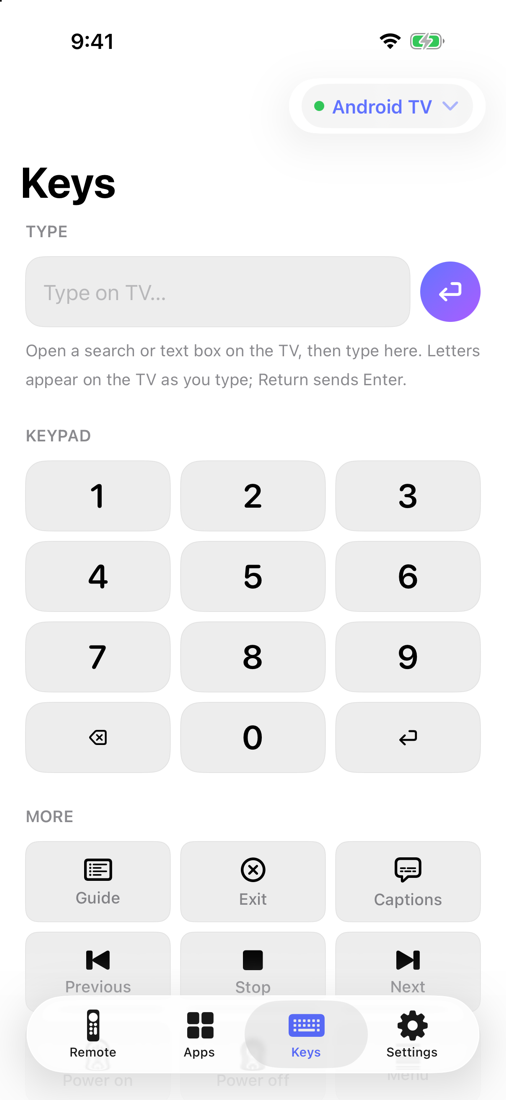
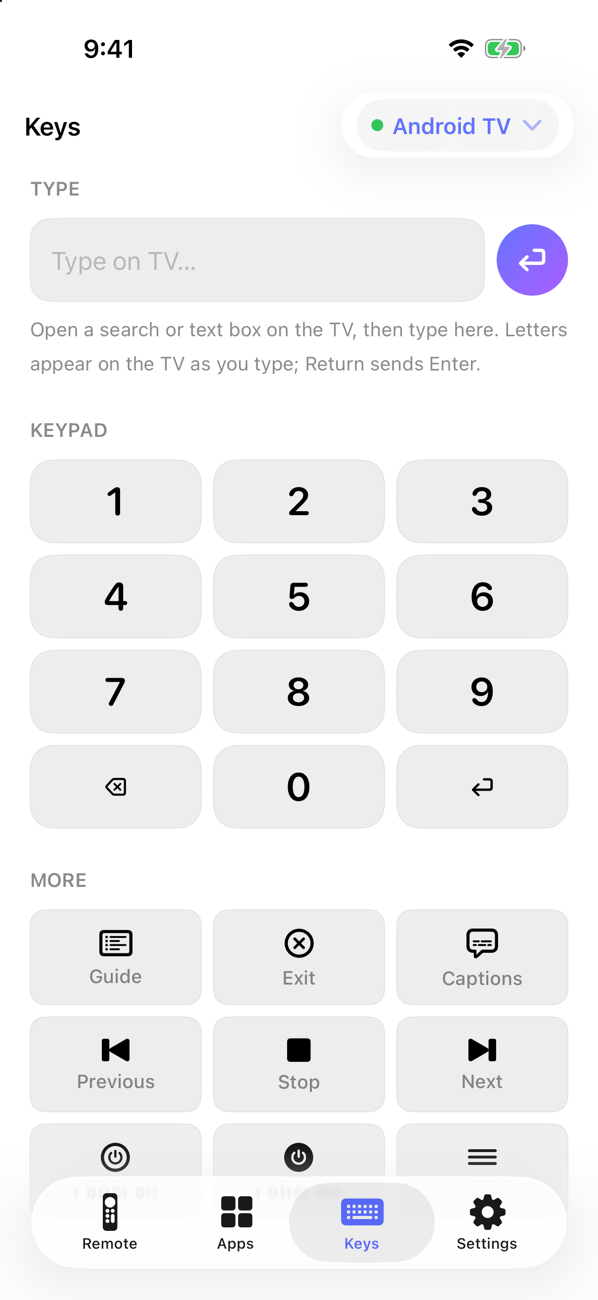
README: fresh screenshots for Mac, iPhone, iPad and Apple Watch

diff --git a/README.md b/README.md
@@ -18,10 +18,11 @@ so your keyboard and trackpad become the remote.
 </p>
 
 <p align="center">
-<img src="docs/screenshots/remote.png" width="260" alt="Remote with app launcher">
-<img src="docs/screenshots/light-ocean.png" width="260" alt="Light mode with the Ocean theme and keypad">
-<img src="docs/screenshots/themes.png" width="260" alt="Color themes in Settings">
+<img src="docs/screenshots/remote.png" width="230" alt="Mac menu bar remote">
+<img src="docs/screenshots/iphone-remote.png" width="230" alt="iPhone remote">
+<img src="docs/screenshots/watch-remote.png" width="170" alt="Apple Watch remote">
 </p>
+<p align="center"><img src="docs/screenshots/ipad-remote.png" width="560" alt="iPad two-column remote"></p>
 
 ## Contents
 - [Supported TVs](#supported-tvs)
@@ -71,7 +72,7 @@ A native iPhone and iPad app shares every rule, protocol driver and component wi
 - **Walkthrough** on first launch: four short pages on finding, pairing and controlling your TV. Replay it from Settings → About.
 - **Tab bar:** iPhone has Remote, Apps, Keys and Settings at the bottom. iPad only needs Remote and Settings, at the top, because its Remote tab already includes apps and keys.
 - **App icon and launch screen** use the TCL Remote TV icon.
-- **Remote tab:** fills the screen with no scrolling. It has a large arrow pad or a **touchpad** (swipe to move, with each swipe step one arrow press and a haptic tap; tap to select), big buttons for back, home, search and settings, a volume/media/channel cluster, the live volume bar, and **a row of your apps** at the bottom. Everything scales to the screen, from iPhone SE to Pro Max.
+- **Remote tab:** fills the screen with no scrolling. It has a large arrow pad or a **touchpad** (swipe to move, with each swipe step one arrow press and a haptic tap; tap to select), big volume and channel rockers on the sides with a wide Home button and back, mute, search, rewind, settings and forward between them, the live volume bar, and **a row of your apps** at the bottom. Everything scales to the screen, from iPhone SE to Pro Max.
 - **TV switcher** in the navigation bar: switch between saved TVs or find new ones. Pairing opens as a sheet.
 - **iPad:** a two-column remote. The controls fill the left column with even spacing; your apps, the live keyboard, the number pad and the extra keys fill the right.
 - **Keys tab:** a live keyboard for the TV's text boxes, a number pad, and extra keys (guide, captions, stop, power on/off).
@@ -83,7 +84,9 @@ Small and medium widgets with power, home, play/pause, mute and volume. Tapping 
 
 ### Apple Watch
 
-A companion watch app with an arrow pad and OK, the **Digital Crown for volume**, a controls page (back, home, play/pause, mute, channels, power) and your apps.
+<p align="center"><img src="docs/screenshots/watch-remote.png" width="200" alt="Arrow pad with Home and Back on Apple Watch"></p>
+
+A companion watch app with an arrow pad, OK in the centre and **Home and Back** in the bottom corners, the **Digital Crown for volume**, a controls page (back, play/pause, mute, power, volume) and your apps.
 
 watchOS doesn't allow the secure socket connection Google TV needs, so the watch sends each button press **through the iPhone app**, which wakes in the background. The iPhone must be nearby, and you pair TVs on the iPhone. **Roku** TVs use plain HTTP, so the watch controls them directly when the iPhone isn't reachable.
 
@@ -143,9 +146,23 @@ Pick a scheme: **TCL Remote iOS** (iPhone and iPad, with the widget), **TCL Remo
 |---|---|
 | <img src="docs/screenshots/settings.png" width="250" alt="General settings"> | <img src="docs/screenshots/themes.png" width="250" alt="Color themes"> |
 
-**iPhone and iPad:** see [iPhone and iPad](#iphone-and-ipad).
+**iPhone**
 
-Regenerate the Mac screenshots with `scripts/screenshots.sh` (needs a built app and a reachable TV). The iOS screenshots come from the Simulator (`xcrun simctl io <device> screenshot`).
+| Remote | Apps | Keys | Settings |
+|---|---|---|---|
+| <img src="docs/screenshots/iphone-remote.png" width="190" alt="Remote tab on iPhone"> | <img src="docs/screenshots/iphone-apps.png" width="190" alt="Apps tab on iPhone"> | <img src="docs/screenshots/iphone-keys.png" width="190" alt="Keys tab on iPhone"> | <img src="docs/screenshots/iphone-settings.png" width="190" alt="Settings tab on iPhone"> |
+
+**iPad**
+
+| Remote | Finding a TV |
+|---|---|
+| <img src="docs/screenshots/ipad-remote.png" width="380" alt="Two-column remote on iPad"> | <img src="docs/screenshots/ipad-welcome.png" width="380" alt="Finding a TV on iPad"> |
+
+**Apple Watch**
+
+<img src="docs/screenshots/watch-remote.png" width="200" alt="Arrow pad with Home and Back on Apple Watch">
+
+Regenerate the Mac screenshots with `scripts/screenshots.sh` (needs a built app and a reachable TV). The iPhone, iPad and watch screenshots come from the Simulator (`xcrun simctl io <device> screenshot`).
 
 ## Install
 
